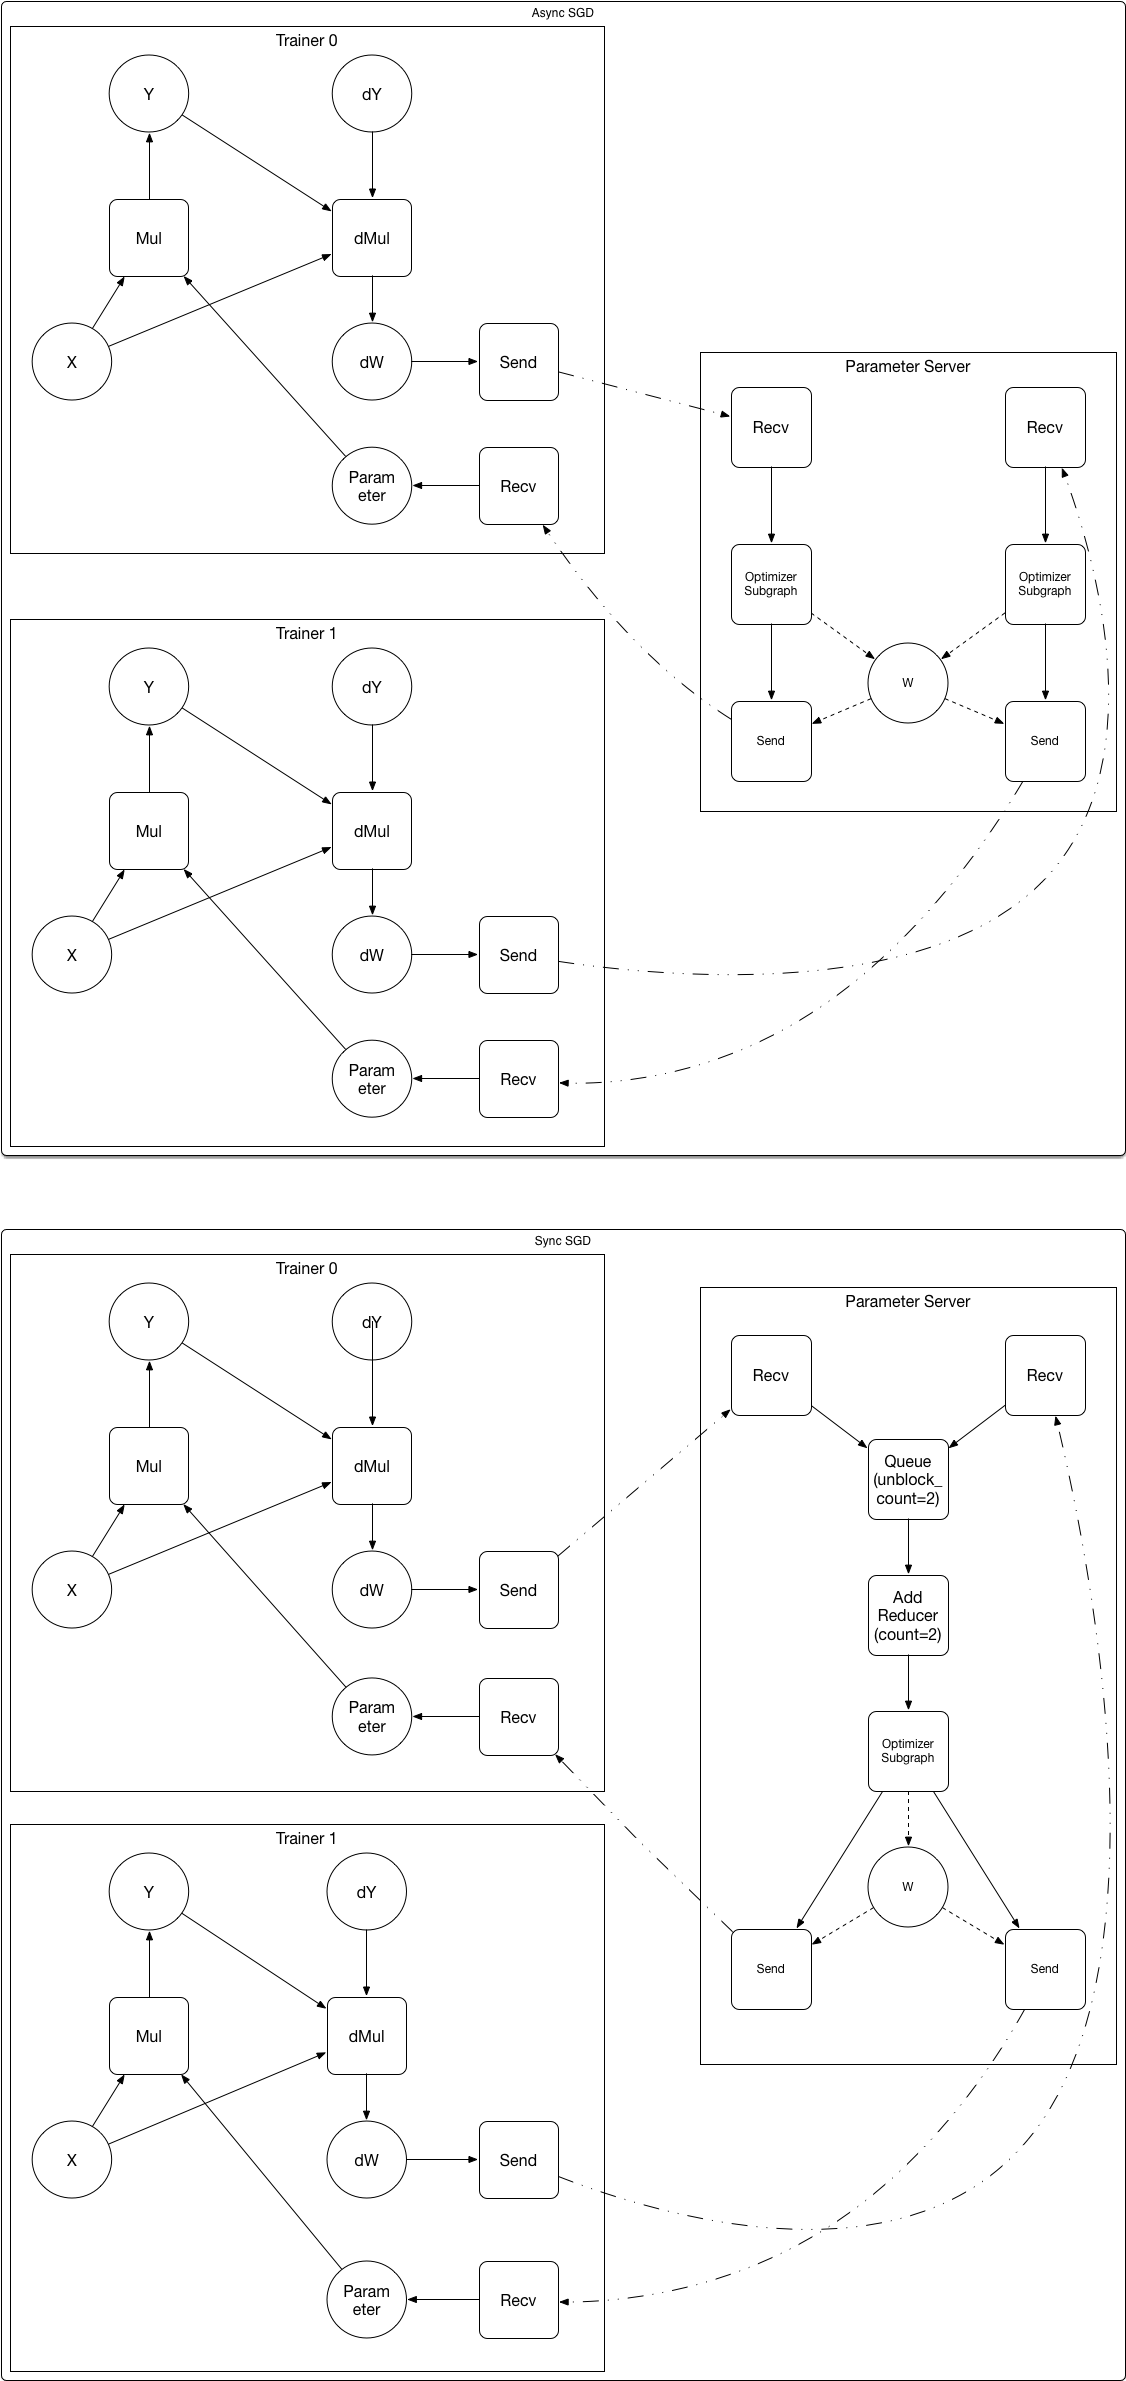
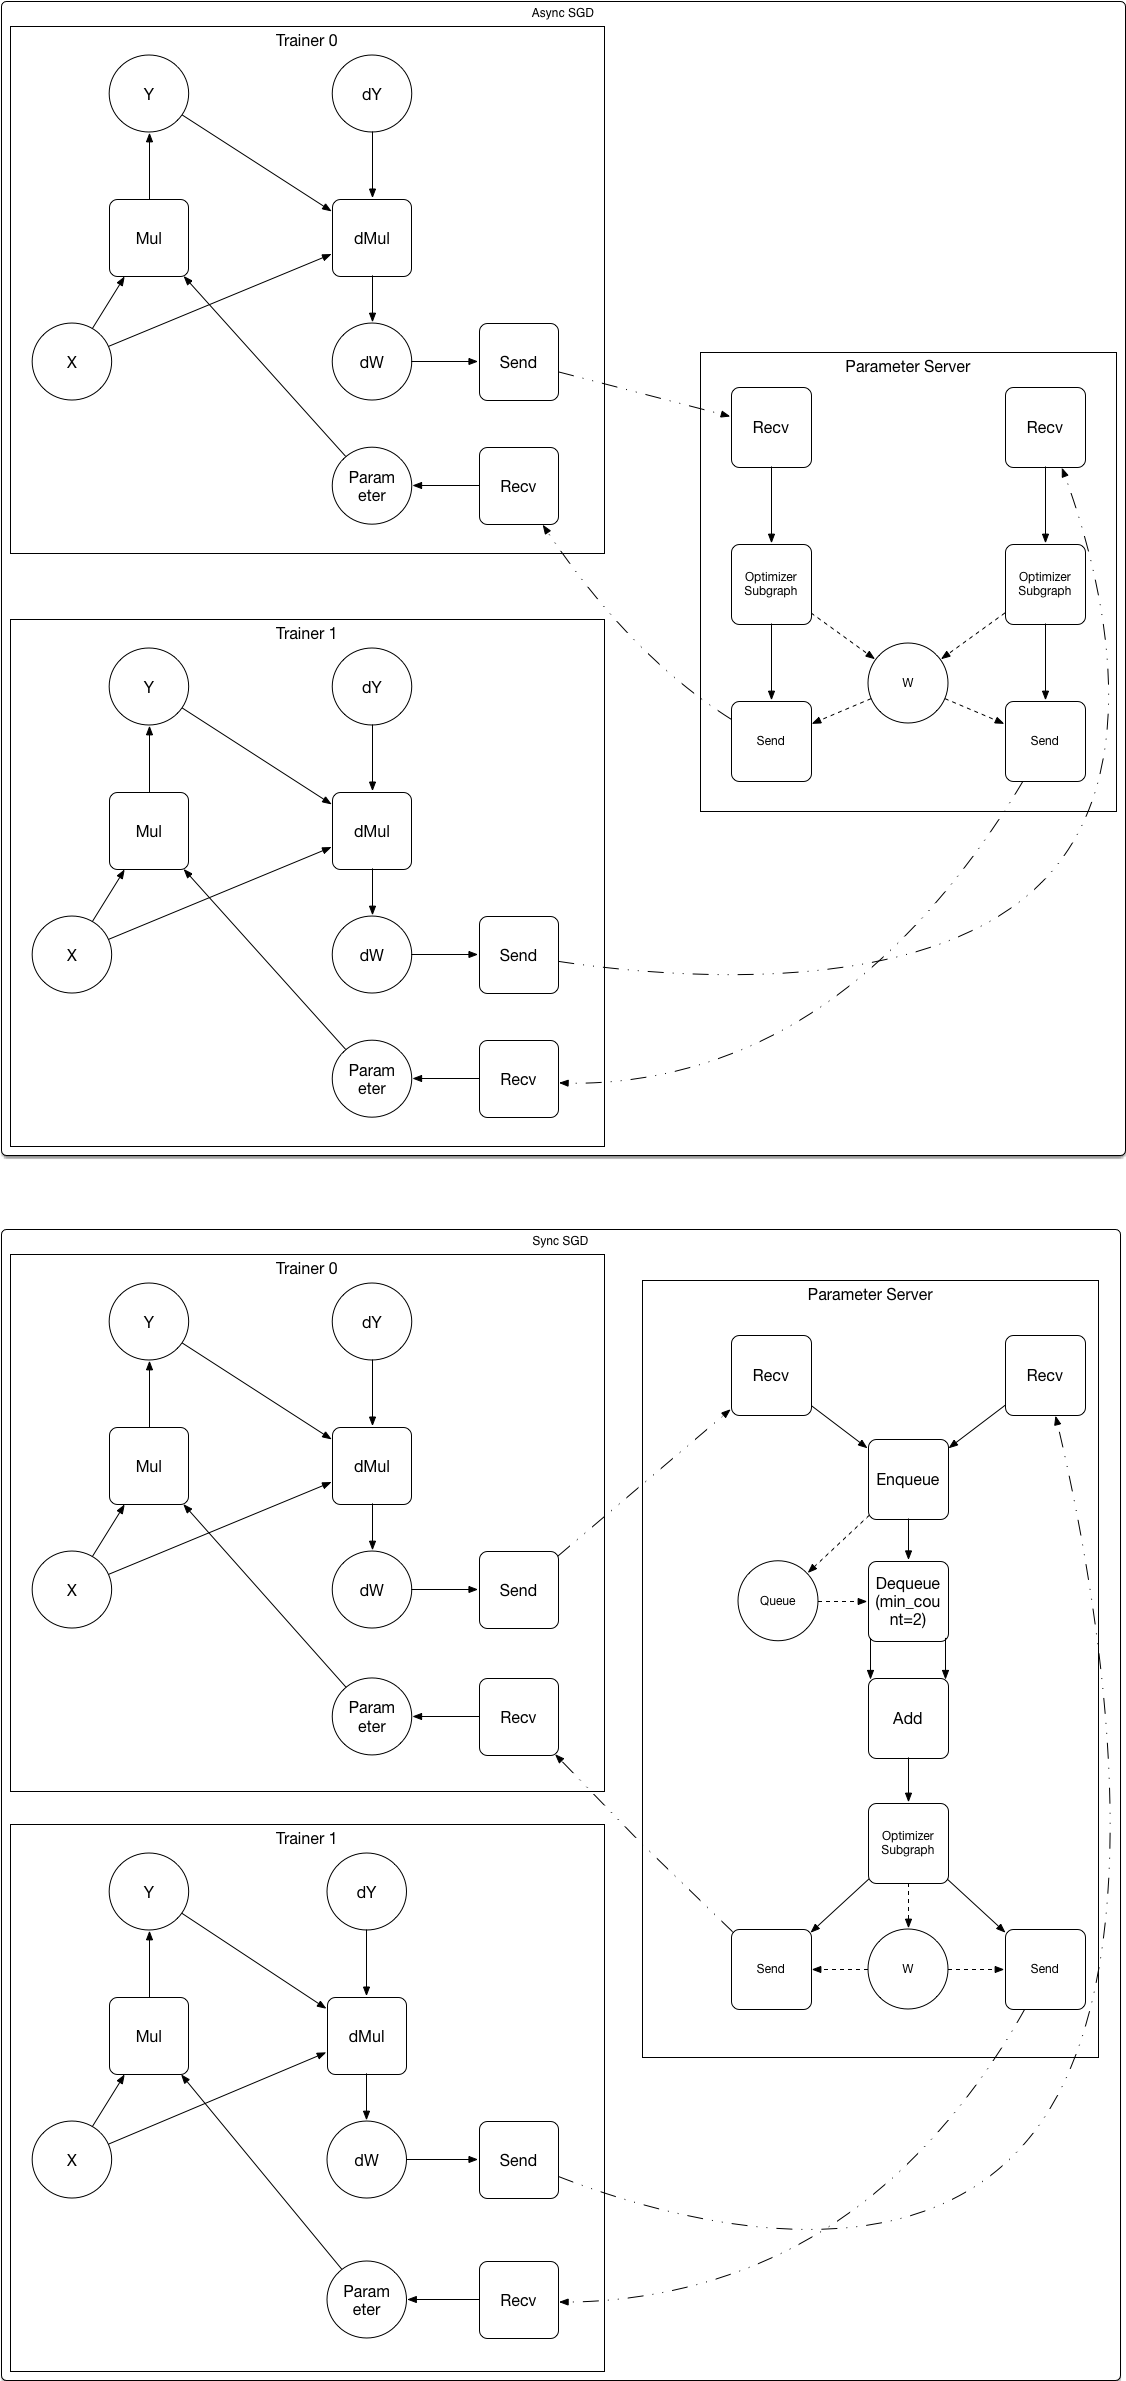
update OP based parameter server design

Changed region(s): [[0.9947, 0.4973, 1.0, 1.0], [0.7771, 0.5905, 0.8393, 0.8081], [0.746, 0.5283, 0.8393, 0.5594]]

diff --git a/doc/design/ops/dist_train.md b/doc/design/ops/dist_train.md
@@ -4,13 +4,13 @@
 
 We propose an approach to implement the parameter server. In this
 approach, there is no fundamental difference between the trainer and
-the parameter server: they both run sub-graphs, but sub-graphs of
+the parameter server: they both run subgraphs, but subgraphs of
 different purposes.
 
 ## Background
 
 The previous implementations of the parameter server does not run a
-sub-graph. parameter initialization, optimizer computation, network
+subgraph. parameter initialization, optimizer computation, network
 communication and checkpointing are implemented twice on both the
 trainer and the parameter server.
 
@@ -26,35 +26,40 @@ server becomes a natural extension.
 ### Graph Converter
 
 The *graph converter* converts the user-defined operation (OP) graph
-into sub-graphs to be scheduled on different nodes.
+into subgraphs to be scheduled on different nodes with the following
+steps:
 
-1. The user-defined OP graph will be cut into sub-graphs of
-different purposes (e.g., trainer, parameter server) to run on
-different workers.
+1. OP placement: the OPs will be placed on different nodes according
+   to heuristic that minimizes estimated total computation
+   time. Currently we will use a simple heuristic that puts parameter
+   varable on parameter server workers and everything else on trainer
+   workers.
 
-1. OPs will be added to the subgraphs, so the subgraphs can
-communicate with each other. We will need these OPs: *send*, *recv*,
-*gradient accumulator*, *string accumulator*, *loop forever*.
+1. Add communication OPs to enable the communication between nodes.
+
+We will need these OPs: *Send*, *Recv*, *Enqueue*, *Dequeue*.
 
 Below is an example of converting the user defined graph to the
-sub-graphs for the trainer and the parameter server:
+subgraphs for the trainer and the parameter server:
 
 <img src="src/local-graph.png" width="300"/>
 
 After converting:
 
-<img src="src/dist-graph.png" width="500"/>
+<img src="src/dist-graph.png" width="700"/>
 
 1. The parameter variable W and it's optimizer subgraph are placed on the parameter server.
-1. Operators are added to the sub-graphs.
-   - *send* operator sends data and sender's address to the destination.
-   - *recv* operator receives data and sender's address from the
-     destination. It will block until data has been received.
-   - *gradient accumulator* operator accumulates *N* pieces of
-     gradients. N=1 in Async-SGD, N>1 in Sync-SGD.
-   - *string accumulator* accumulates *N* pieces of strings into a
-     list of strings. N=1 in Async-SGD, N>1 in Sync-SGD.
-   - *loop forever* runs itself as a target forever.
+1. Operators are added to the subgraphs.
+   - *Send* sends data to the connected *Recv* operator.  The
+	 scheduler on the receive node will only schedule *Recv* operator
+	 to run when the *Send* operator has ran (the *Send* OP will mark
+	 the *Recv* OP runnable automatically).
+   - *Enueue* enqueues the input variable, it can block until space
+     become available in the queue.
+   - *Dequeue* outputs configurable numbers of tensors from the
+     queue. It will block until the queue have the required number of
+     tensors.
+
 
 ### Benefits
 
@@ -71,8 +76,8 @@ After converting:
 ### Challenges
 
 - It might be hard for the graph converter to cut a general graph
-  (without any hint for which sub-graph is the optimizer). We may need
-  to label which sub-graph inside the OP graph is the optimizer.
+  (without any hint for which subgraph is the optimizer). We may need
+  to label which subgraph inside the OP graph is the optimizer.
 
 - It's important to balance the parameter shards of on multiple
   parameter server. If a single parameter is very big (some
@@ -80,3 +85,19 @@ After converting:
   automatically partition the single parameter onto different
   parameter servers when possible (only element-wise optimizer depends
   on the parameter variable).
+
+### Discussion
+
+- In the "Aync SGD" figure, the "W" variable on the parameter server
+  could be read and wrote concurrently, what is our locking strategy?
+
+- Does our current tensor design supports enqueue (put the input tensor
+  into the queue tensor)?
+
+- *Dequeue* OP will have variable numbers of output (depends on the
+  `min_count` attribute), does our current design support it? (similar
+  question for the *Add* OP)
+
+
+References:
+[1] (TensorFlow: Large-Scale Machine Learning on Heterogeneous Distributed Systems)[https://static.googleusercontent.com/media/research.google.com/en//pubs/archive/45166.pdf]
